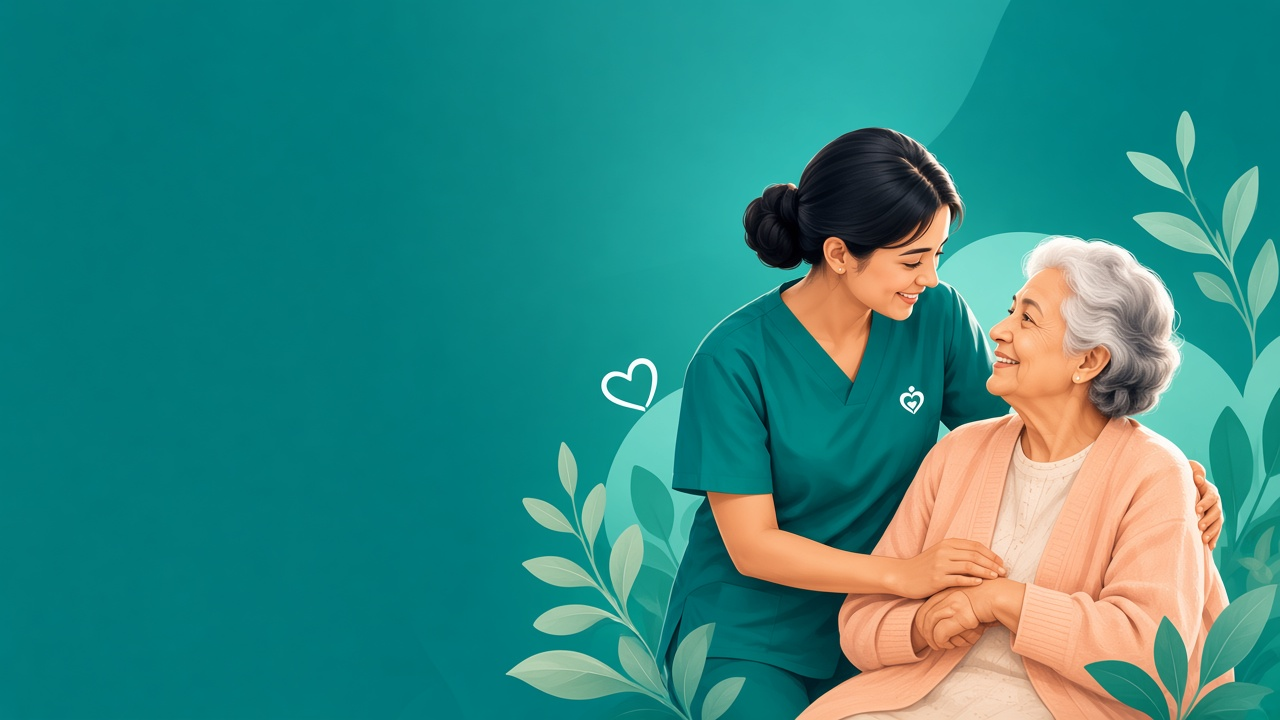
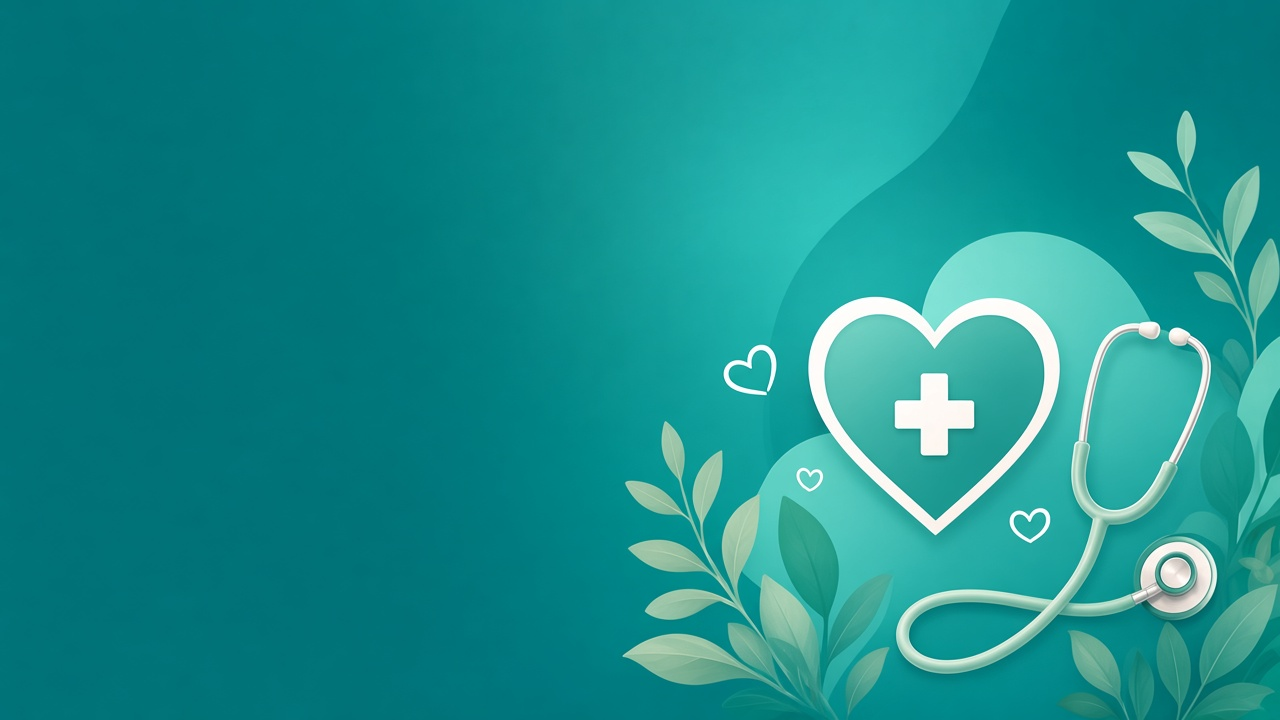
done

diff --git a/src/navigation/AppNavigator.jsx b/src/navigation/AppNavigator.jsx
@@ -62,44 +62,42 @@ function MainTabs() {
   // Fallback 16 covers older Android devices where inset hasn't loaded yet.
   const safeBottom = insets.bottom > 0 ? insets.bottom : 16;
 
-  const renderTabIcon = (iconName, focused, showDot = false) => (
-    <View>
-      <View
-        style={[
-          tabStyles.iconContainer,
-          focused && tabStyles.activeIconContainer,
-        ]}>
-        <Icon
-          name={iconName}
-          size={21}
-          color={focused ? '#0E8B78' : '#8B9894'}
-        />
-      </View>
-      {showDot ? <View style={tabStyles.badgeDot} /> : null}
-    </View>
+  const renderTabIcon = (iconName, focused) => (
+    <Icon
+      name={iconName}
+      size={21}
+      color={focused ? '#FFFFFF' : '#8A9290'}
+    />
   );
 
   return (
     <Tab.Navigator
       initialRouteName="Home"
+      backBehavior="history"
       screenOptions={{
         headerShown: false,
         tabBarStyle: {
-          backgroundColor: '#FFFFFF',
+          backgroundColor: '#111414',
           borderTopWidth: 0,
           elevation: 0,
           shadowOpacity: 0,
+          marginHorizontal: '10%',
+          marginBottom: safeBottom + 6,
+          height: 62,
+          borderRadius: 31,
           paddingTop: 6,
-          paddingBottom: safeBottom + 4,
-          height: 64 + safeBottom,
+          paddingBottom: 6,
+        },
+        tabBarItemStyle: {
+          justifyContent: 'center',
         },
         tabBarLabelStyle: {
-          fontSize: 11,
+          fontSize: 10,
           fontWeight: '600',
           marginTop: 1,
         },
-        tabBarActiveTintColor: '#0E8B78',
-        tabBarInactiveTintColor: '#8B9894',
+        tabBarActiveTintColor: '#FFFFFF',
+        tabBarInactiveTintColor: '#8A9290',
         tabBarShowLabel: true,
       }}>
       <Tab.Screen
@@ -121,6 +119,15 @@ function MainTabs() {
         }}
       />
       <Tab.Screen
+        name="Messages"
+        component={SupportChatScreen}
+        options={{
+          tabBarLabel: () => null,
+          tabBarStyle: {display: 'none'},
+          tabBarIcon: () => renderChatIcon(Number(supportUnread) > 0),
+        }}
+      />
+      <Tab.Screen
         name="Bookings"
         component={BookingsScreen}
         options={{
@@ -129,19 +136,6 @@ function MainTabs() {
             renderTabIcon(
               focused ? 'calendar' : 'calendar-outline',
               focused,
-            ),
-        }}
-      />
-      <Tab.Screen
-        name="Messages"
-        component={SupportChatScreen}
-        options={{
-          tabBarLabel: t('tabMessages'),
-          tabBarIcon: ({focused}) =>
-            renderTabIcon(
-              focused ? 'chatbubble-ellipses' : 'chatbubble-ellipses-outline',
-              focused,
-              Number(supportUnread) > 0,
             ),
         }}
       />
@@ -235,28 +229,32 @@ function AppNavigator() {
   );
 }
 
+const renderChatIcon = hasUnread => (
+  <View style={tabStyles.chatButton}>
+    <Icon name="chatbubble-ellipses" size={22} color="#FFFFFF" />
+    {hasUnread ? <View style={tabStyles.badgeDot} /> : null}
+  </View>
+);
+
 const tabStyles = StyleSheet.create({
-  iconContainer: {
+  chatButton: {
     width: 46,
-    height: 28,
-    borderRadius: 10,
-    justifyContent: 'center',
+    height: 46,
+    borderRadius: 23,
+    backgroundColor: '#0E8B78',
     alignItems: 'center',
-    backgroundColor: 'transparent',
-  },
-  activeIconContainer: {
-    backgroundColor: '#E5F6F1',
+    justifyContent: 'center',
   },
   badgeDot: {
     position: 'absolute',
-    width: 8,
-    height: 8,
-    borderRadius: 4,
+    width: 10,
+    height: 10,
+    borderRadius: 5,
     backgroundColor: '#FF4B4B',
     top: 2,
-    right: 6,
+    right: 2,
     borderWidth: 1.5,
-    borderColor: '#E6ECEB',
+    borderColor: '#111414',
   },
 });
 

diff --git a/src/components/home/ActiveCardBackground.jsx b/src/components/home/ActiveCardBackground.jsx
@@ -1,10 +1,7 @@
 import React from 'react';
-import {View, Image, StyleSheet} from 'react-native';
+import {View, StyleSheet} from 'react-native';
 import LinearGradient from 'react-native-linear-gradient';
-
-const careArt = require('../../assets/home-active-booking-bg.png');
-
-const ART_SIZE = 190;
+import Icon from 'react-native-vector-icons/Ionicons';
 
 const ActiveCardBackground = () => (
   <View style={StyleSheet.absoluteFill} pointerEvents="none">
@@ -18,21 +15,9 @@ const ActiveCardBackground = () => (
     <View style={styles.cornerBlob} />
     <View style={styles.wave} />
 
-    <View style={styles.artWrap}>
-      <Image source={careArt} style={styles.art} resizeMode="cover" />
-      <LinearGradient
-        colors={['#EEF8F5', 'rgba(238, 248, 245, 0)']}
-        start={{x: 0, y: 0.5}}
-        end={{x: 1, y: 0.5}}
-        style={styles.artFadeLeft}
-      />
-      <LinearGradient
-        colors={['rgba(232, 245, 241, 0)', '#E6F4F0']}
-        start={{x: 0.5, y: 0}}
-        end={{x: 0.5, y: 1}}
-        style={styles.artFadeBottom}
-      />
-    </View>
+    <Icon name="heart" size={96} color="rgba(14, 139, 120, 0.08)" style={styles.heart} />
+    <Icon name="medkit" size={44} color="rgba(14, 139, 120, 0.10)" style={styles.medkit} />
+    <Icon name="leaf" size={38} color="rgba(14, 139, 120, 0.10)" style={styles.leaf} />
   </View>
 );
 
@@ -70,35 +55,22 @@ const styles = StyleSheet.create({
     backgroundColor: '#D6EFE8',
     opacity: 0.55,
   },
-  artWrap: {
+  heart: {
     position: 'absolute',
-    top: 0,
-    bottom: 0,
-    right: 0,
-    width: 160,
-    justifyContent: 'center',
-    overflow: 'hidden',
+    right: 14,
+    top: 18,
+    transform: [{rotate: '-12deg'}],
   },
-  art: {
+  medkit: {
     position: 'absolute',
-    right: -22,
-    top: '50%',
-    marginTop: -ART_SIZE / 2 - 6,
-    width: ART_SIZE,
-    height: ART_SIZE,
+    right: 96,
+    top: 12,
+    transform: [{rotate: '10deg'}],
   },
-  artFadeLeft: {
+  leaf: {
     position: 'absolute',
-    top: 0,
-    bottom: 0,
-    left: 0,
-    width: 36,
-  },
-  artFadeBottom: {
-    position: 'absolute',
-    left: 0,
-    right: 0,
-    bottom: 0,
-    height: 18,
+    right: 90,
+    bottom: 14,
+    transform: [{rotate: '-20deg'}],
   },
 });

diff --git a/App.tsx b/App.tsx
@@ -13,7 +13,7 @@ import {AuthProvider, useAuth} from './src/context/AuthContext';
 import AppNavigator from './src/navigation/AppNavigator';
 import SplashScreen from './src/screens/SplashScreen';
 import notificationService from './src/services/notificationService';
-import {NavigationContainer} from '@react-navigation/native';
+import {NavigationContainer, DefaultTheme} from '@react-navigation/native';
 import NotificationBanner from './src/components/common/NotificationBanner';
 import {handleNotificationClick, parseNotificationData} from './src/utils/notificationHandler';
 import {isSupportMessagePush} from './src/utils/supportPush';
@@ -21,6 +21,11 @@ import {queryKeys} from './src/api/queryKeys';
 import {ModalProvider} from './src/contexts/ModalContext';
 import BookingAlertHost from './src/components/booking/BookingAlertHost';
 import {showBookingAlertFromPush} from './src/utils/bookingAlerts';
+
+const navTheme = {
+  ...DefaultTheme,
+  colors: {...DefaultTheme.colors, background: '#FFFFFF'},
+};
 
 const queryClient = new QueryClient({
   defaultOptions: {
@@ -142,7 +147,10 @@ function AppContent() {
 
   return (
     <>
-      <NavigationContainer ref={navigationRef} onReady={setupNotificationListeners}>
+      <NavigationContainer
+        ref={navigationRef}
+        theme={navTheme}
+        onReady={setupNotificationListeners}>
         <AppNavigator />
       </NavigationContainer>
       <NotificationBanner

diff --git a/src/screens/SupportChatScreen.jsx b/src/screens/SupportChatScreen.jsx
@@ -757,7 +757,7 @@ const SupportChatScreen = () => {
       style={styles.safeArea}
       edges={isTab ? ['top', 'bottom', 'left', 'right'] : ['bottom', 'left', 'right']}>
       <ChatThemeBackground />
-      <Header title={t('Nirapod Support')} showBack={!isTab} />
+      <Header title={t('Nirapod Support')} showBack />
       <KeyboardAvoidingView
         style={styles.flex}
         behavior={Platform.OS === 'ios' ? 'padding' : 'height'}
